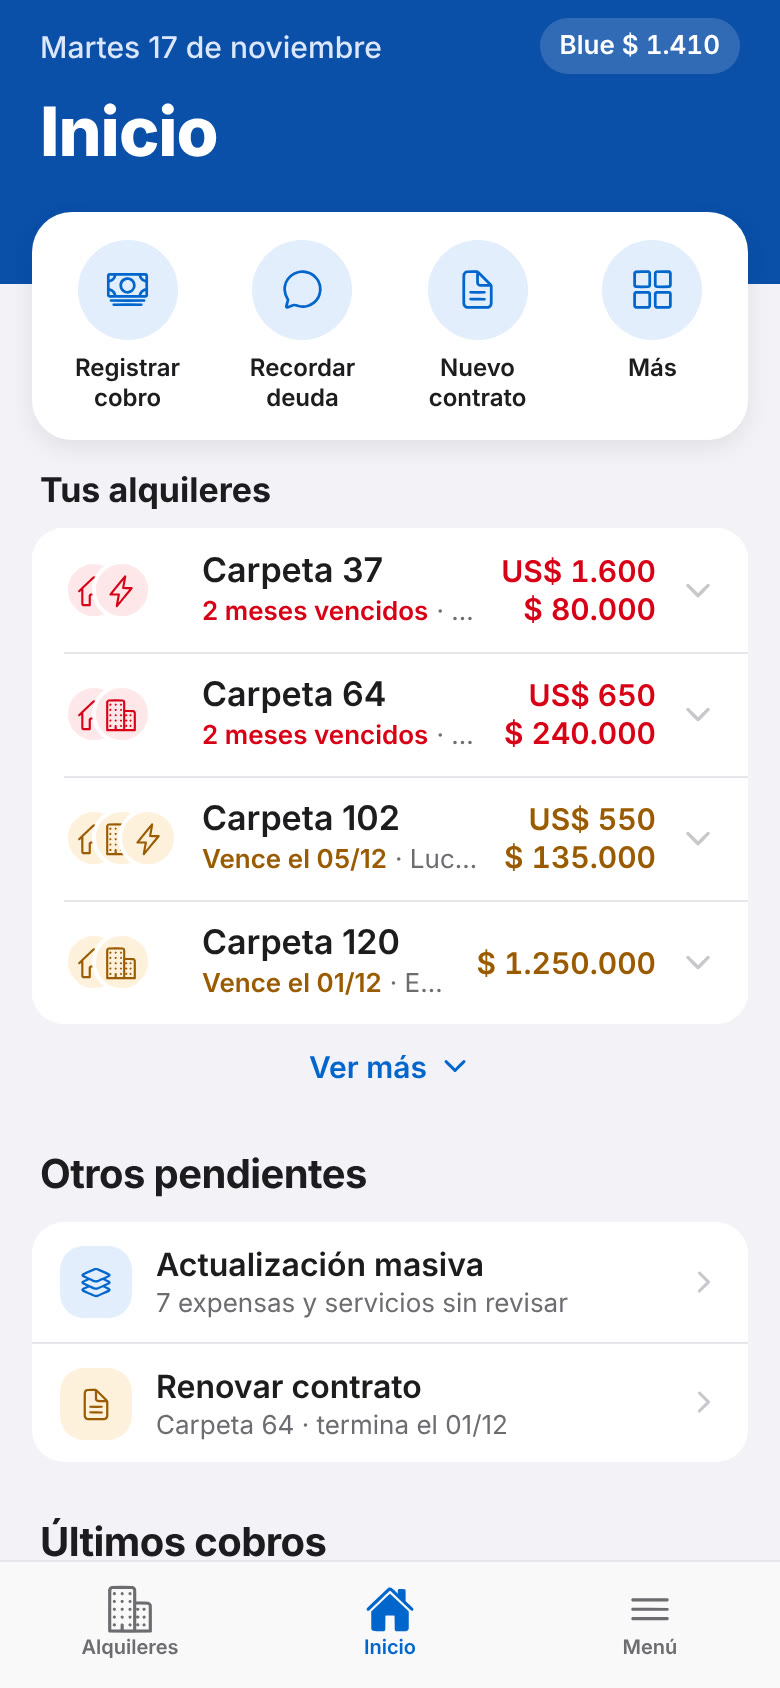
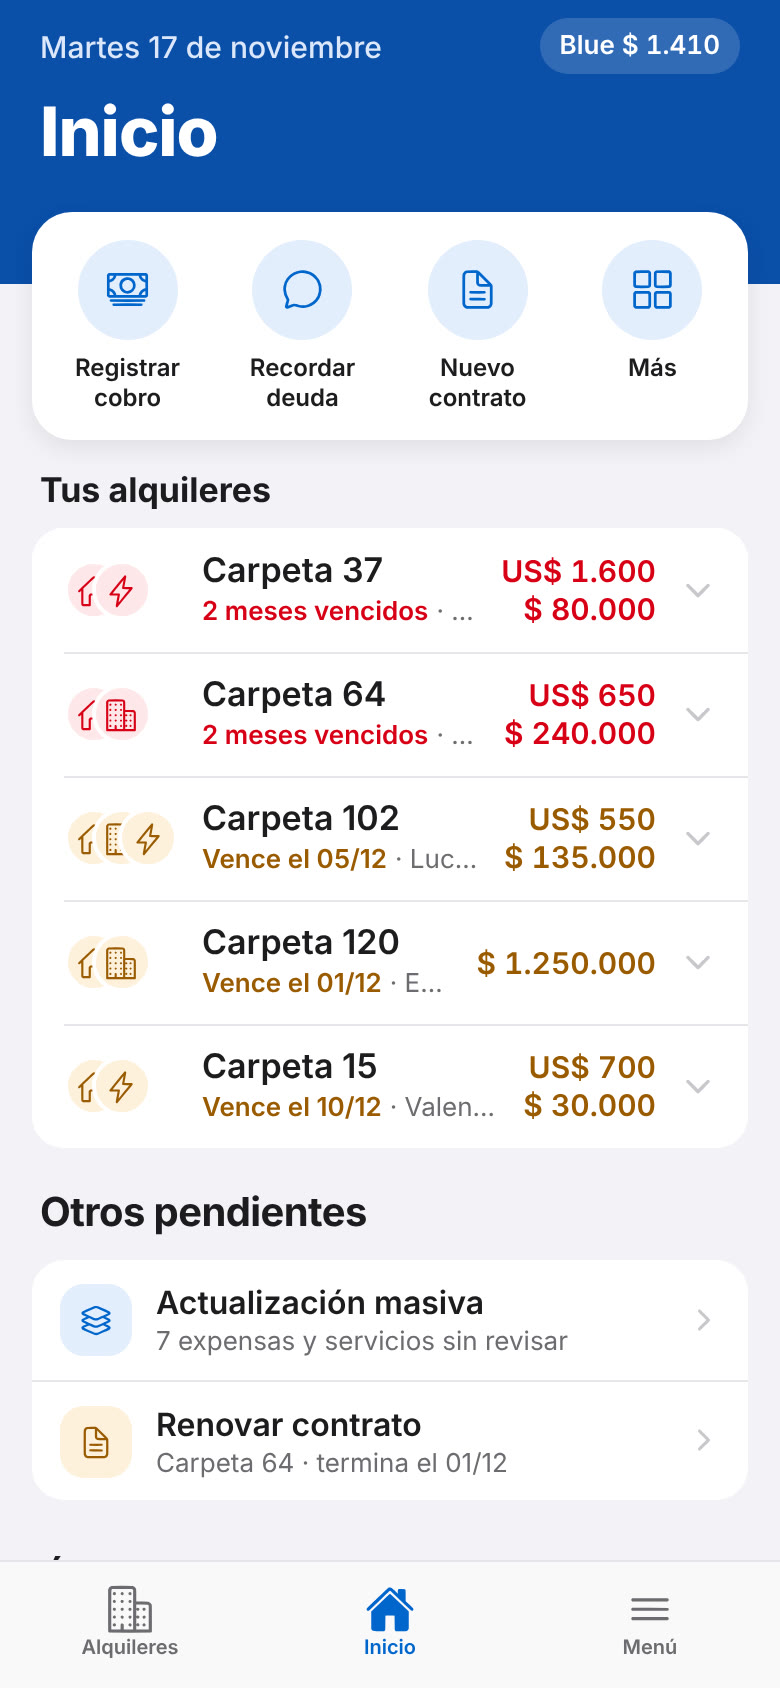
Manual: «Tus alquileres» muestra cinco y la tarjeta abierta se ve entera
Claude-Session: https://claude.ai/code/session_018KpU8H5eu7ZHizvPu6PV54

Changed region(s): [[0.0308, 0.6161, 0.7385, 0.9242], [0.6769, 0.6161, 0.8308, 0.6777], [0.8923, 0.7701, 0.9231, 0.8009]]

diff --git a/public/manual.html b/public/manual.html
@@ -294,7 +294,7 @@
           <ol class="steps">
             <li><b>La franja azul</b> muestra la fecha de hoy y la cotización del dólar. Tocá el dólar para ver o cambiar cuál se usa.</li>
             <li><b>Los accesos directos</b>: de entrada, Registrar cobro, Recordar deuda y Nuevo contrato. Son atajos: cada uno abre la misma función que está en su pestaña, que es como se explica en este manual. El cuarto, <b>Más</b>, muestra todas las funciones (también Agregar cargo, Nueva propiedad, Actualización masiva, Cotización del dólar e Historial por mes) y las abre de un toque. Ahí, la <b>primera fila</b> es la que aparece en Inicio. Para cambiar el orden, <b>mantené apretado</b> un acceso: el celular vibra cortito, el título pasa a «Ordenar accesos» y los íconos se balancean suave. Arrastrá los que quieras a otro lugar (ya no hace falta volver a esperar) y tocá <b>Listo</b> para terminar. En la computadora no hace falta esperar: agarrá un acceso con el mouse y arrastralo directo. El orden queda guardado en ese celular o computadora.</li>
-            <li><b>Tus alquileres</b>: una tarjeta por propiedad, primero las que deben y después las que tienen algo por vencer. Debajo del nombre, el estado en su color («2 meses vencidos» en rojo, «Vence el 05/12» en naranja) y el inquilino; a la derecha, el monto. Se ven cuatro: <b>Ver más</b> muestra el resto. Tocá una tarjeta para abrirla: aparece todo lo que se debe, concepto por concepto y mes por mes (tocá un mes para ver ese cargo), el total, <b>Cobrar</b>, <b>WhatsApp</b> (le manda el detalle de la deuda) y <b>Ver la ficha</b>. Si nadie debe ni vence nada pronto, lo dice.</li>
+            <li><b>Tus alquileres</b>: una tarjeta por propiedad, primero las que deben y después las que tienen algo por vencer. Debajo del nombre, el estado en su color («2 meses vencidos» en rojo, «Vence el 05/12» en naranja) y el inquilino; a la derecha, el monto. Se ven cinco: <b>Ver más</b> muestra el resto. Tocá una tarjeta para abrirla (la pantalla se corre sola para que se vea entera): aparece todo lo que se debe, concepto por concepto y mes por mes (tocá un mes para ver ese cargo), el total, <b>Cobrar</b>, <b>WhatsApp</b> (le manda el detalle de la deuda) y <b>Ver la ficha</b>. Si nadie debe ni vence nada pronto, lo dice.</li>
             <li><b>Otros pendientes</b>: las expensas y servicios del mes que faltan revisar, los contratos que terminan y hay que renovar, y los alquileres que se ajustan este mes o el próximo (el ajuste lo hace la app sola; es solo un aviso).</li>
             <li><b>Últimos cobros</b>: los tres más recientes. Tocá uno para ver su detalle. <b>Ver todo el historial</b> abre todos los cobros y cargos (ver el capítulo «Historial de cobros»).</li>
           </ol>
